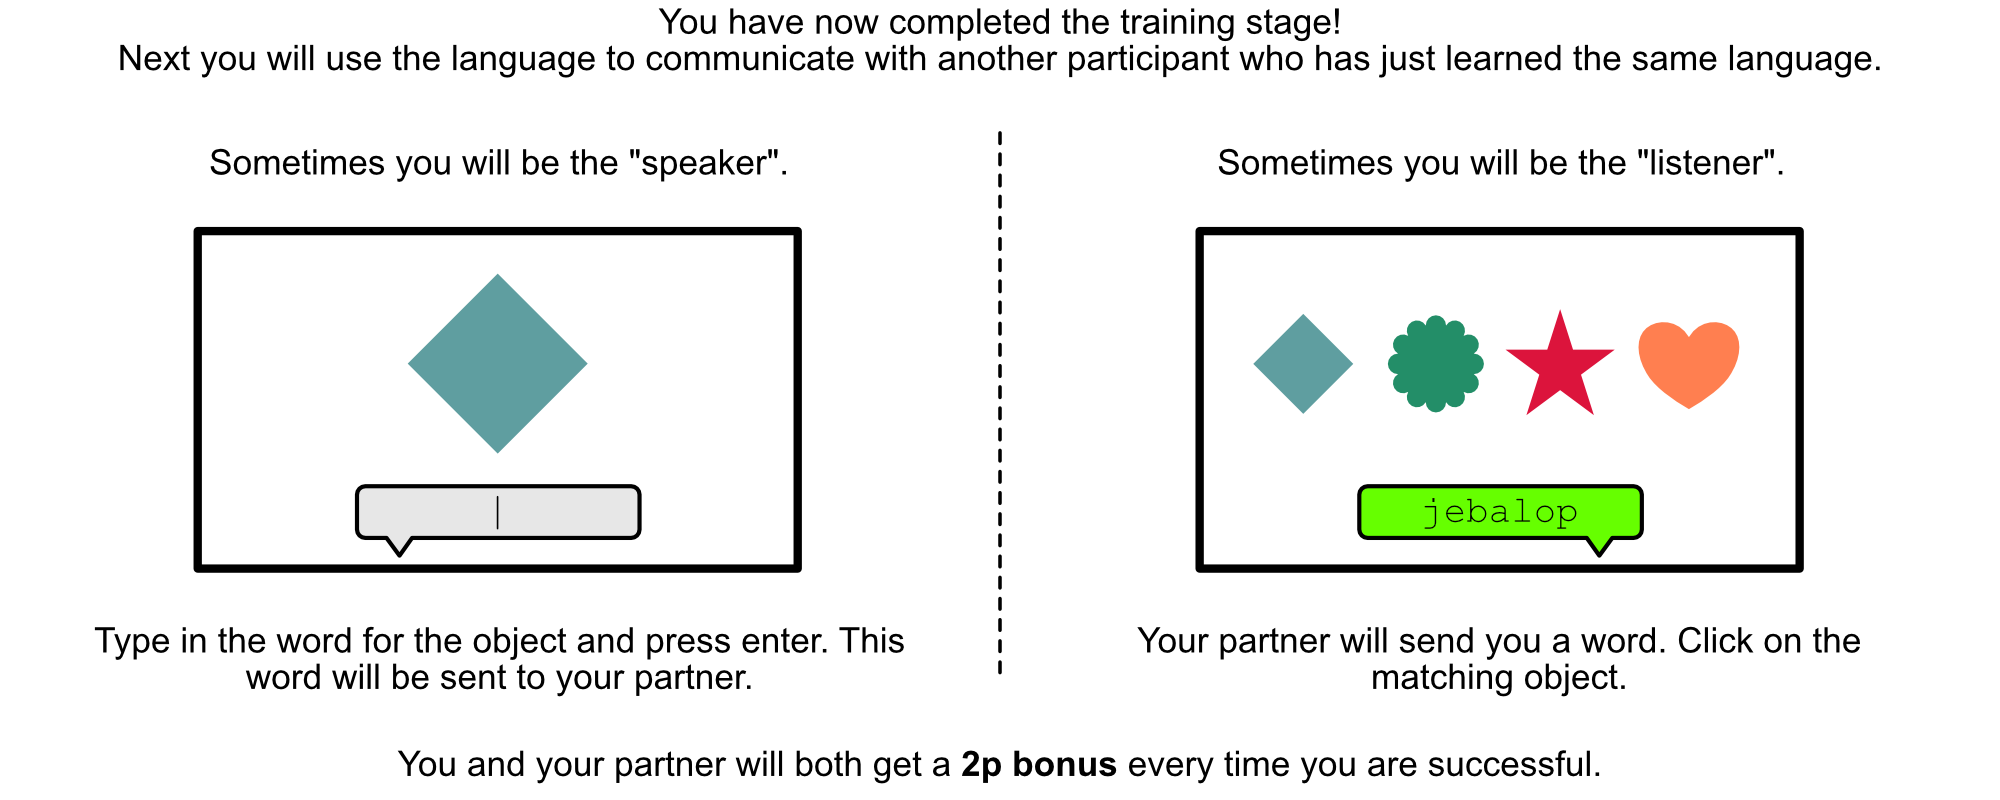
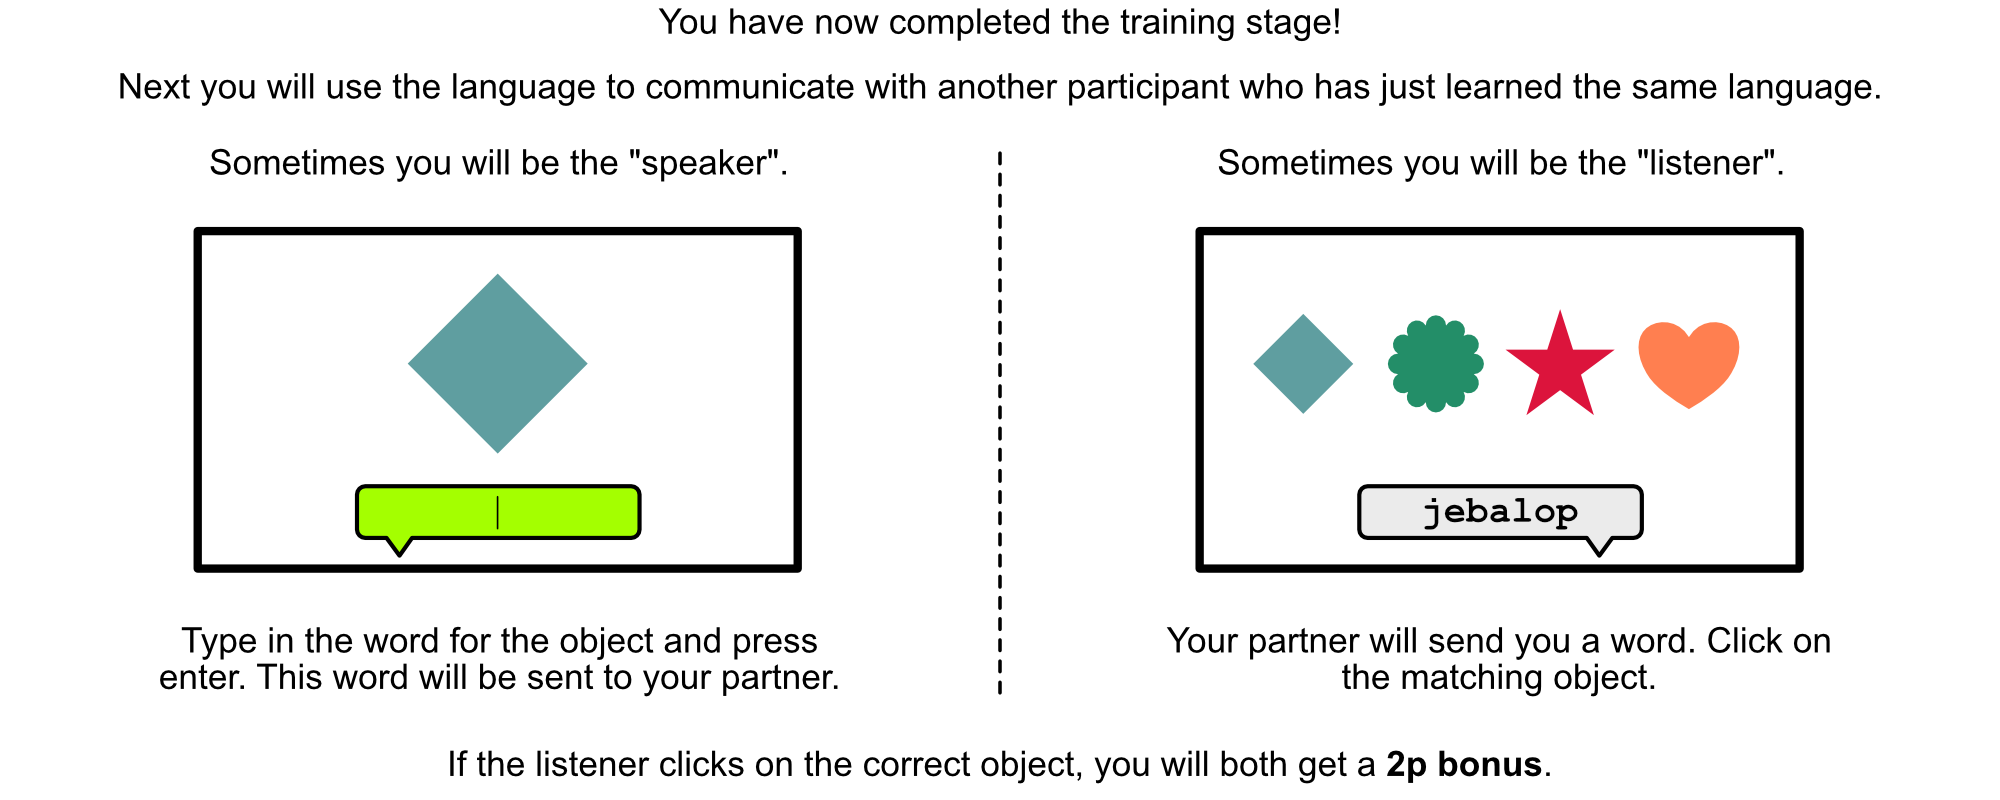
Add mini test timeout and fix bonusing

diff --git a/experiment/server.js b/experiment/server.js
@@ -166,6 +166,7 @@ function generateTrialSequence(task, words, trained_item_indices, lead_communica
 						shape: shape,
 						color: color,
 						catch_trial: false,
+						max_response_time: EXP_CONFIG.max_response_time,
 					};
 					// trial_sequence.push({event:'training_block', payload:{
 					// 	training_trials,
@@ -173,8 +174,6 @@ function generateTrialSequence(task, words, trained_item_indices, lead_communica
 					// 	trial_time: task.trial_time,
 					// 	pause_time: task.pause_time,
 					// 	progress: task.mini_test_freq + 1,
-					// 	bonus_partial: task.bonus_partial,
-					// 	bonus_full: task.bonus_full,
 					// }});
 					training_trials = [];
 				}
@@ -206,15 +205,11 @@ function generateTrialSequence(task, words, trained_item_indices, lead_communica
 				color: color,
 				pause_time: task.pause_time,
 				progress: 2,
-				bonus_partial: task.bonus_partial,
-				bonus_full: task.bonus_full,
 			}};
 			const comprehension_event = {event:'comm_comprehension', payload:{
 				array: generateItems(task.n_shapes, task.n_colors),
 				pause_time: task.pause_time,
 				progress: 2,
-				bonus_partial: task.bonus_partial,
-				bonus_full: task.bonus_full,
 			}};
 			if (lead_communicator) {
 				trial_sequence.push(production_event);
@@ -231,8 +226,6 @@ function generateTrialSequence(task, words, trained_item_indices, lead_communica
 				color: color,
 				pause_time: task.pause_time,
 				progress: 2,
-				bonus_partial: task.bonus_partial,
-				bonus_full: task.bonus_full,
 			}});
 			const comp_item = comp_item_indices[i];
 			trial_sequence.push({event:'test_comprehension', payload:{
@@ -241,8 +234,6 @@ function generateTrialSequence(task, words, trained_item_indices, lead_communica
 				array: generateItems(task.n_shapes, task.n_colors),
 				pause_time: task.pause_time,
 				progress: 2,
-				bonus_partial: task.bonus_partial,
-				bonus_full: task.bonus_full,
 			}});			
 		}
 
@@ -251,9 +242,9 @@ function generateTrialSequence(task, words, trained_item_indices, lead_communica
 		progress : 10,
 	}});
 	trial_sequence.push({event:'end_of_experiment', payload:{
-		return_url : task.return_url,
-		basic_pay : task.basic_pay,
-		progress : 0,
+		return_url: EXP_CONFIG.return_url,
+		basic_pay: EXP_CONFIG.basic_pay,
+		progress: 0,
 	}});
 	let total_units_of_progress = 0;
 	for (let i = 0; i < trial_sequence.length; i++) {
@@ -339,7 +330,7 @@ socket.on('connection', function(client) {
 				db.subjects.update({subject_id: subject.subject_id}, { $set:{client_id: client.id}, $inc: {n_reinitializations: 1} }, function() {
 					return client.emit('initialize', {
 						total_bonus: subject.total_bonus,
-						basic_pay: subject.basic_pay,
+						basic_pay: EXP_CONFIG.basic_pay,
 						max_pay: EXP_CONFIG.max_pay,
 						session_time: EXP_CONFIG.session_time,
 						object_array_dims: EXP_CONFIG.object_array_dims,
@@ -358,9 +349,6 @@ socket.on('connection', function(client) {
 					input_lexicon: null,
 					training_items: null,
 					trial_sequence: generateTrialSequenceStub(),
-					basic_pay: EXP_CONFIG.basic_pay,
-					bonus_partial: EXP_CONFIG.bonus_partial,
-					bonus_full: EXP_CONFIG.bonus_full,
 					n_reinitializations: 0,
 					sequence_position: 0,
 					total_bonus: 0,
@@ -374,7 +362,7 @@ socket.on('connection', function(client) {
 					// Tell the client to initialize
 					return client.emit('initialize', {
 						total_bonus: subject.total_bonus,
-						basic_pay: subject.basic_pay,
+						basic_pay: EXP_CONFIG.basic_pay,
 						max_pay: EXP_CONFIG.max_pay,
 						session_time: EXP_CONFIG.session_time,
 						object_array_dims: EXP_CONFIG.object_array_dims,
@@ -439,6 +427,8 @@ socket.on('connection', function(client) {
 					// tell client to begin the next trial
 					const next = subject.trial_sequence[subject.sequence_position];
 					next.payload.total_bonus = subject.total_bonus;
+					next.payload.total_bonus_with_full = subject.total_bonus + EXP_CONFIG.bonus_full;
+					next.payload.total_bonus_with_part = subject.total_bonus + EXP_CONFIG.bonus_part;
 					return client.emit(next.event, next.payload);
 				});
 			});
@@ -466,16 +456,18 @@ socket.on('connection', function(client) {
 				payload.response.time = time;
 				update.$push = {responses:payload.response};
 				if (payload.response.test_type === 'mini_test') {
-					if (payload.response.input_label === payload.response.expected_label)
-						update.$inc.total_bonus = subject.bonus_full;
-					else if (payload.response.input_label.substr(0, 3) === payload.response.expected_label.substr(0, 3))
-						update.$inc.total_bonus = subject.bonus_partial;
+					if (payload.response.response_time < EXP_CONFIG.max_response_time) {
+						if (payload.response.input_label === payload.response.expected_label)
+							update.$inc.total_bonus = EXP_CONFIG.bonus_full;
+						else if (payload.response.input_label.substr(0, 3) === payload.response.expected_label.substr(0, 3))
+							update.$inc.total_bonus = EXP_CONFIG.bonus_part;
+					}
 				} else if (payload.response.test_type === 'test_production') {
 					if (payload.response.input_label === payload.response.expected_label)
-						update.$inc.total_bonus = subject.bonus_full;
+						update.$inc.total_bonus = EXP_CONFIG.bonus_full;
 				} else if (payload.response.test_type === 'test_comprehension') {
 					if (payload.response.selected_item === payload.response.item)
-						update.$inc.total_bonus = subject.bonus_full;
+						update.$inc.total_bonus = EXP_CONFIG.bonus_full;
 				}
 			}
 			if (payload.comments)
@@ -487,6 +479,8 @@ socket.on('connection', function(client) {
 				// Tell subject to begin the next trial
 				const next = subject.trial_sequence[subject.sequence_position];
 				next.payload.total_bonus = subject.total_bonus;
+				next.payload.total_bonus_with_full = subject.total_bonus + EXP_CONFIG.bonus_full;
+				next.payload.total_bonus_with_part = subject.total_bonus + EXP_CONFIG.bonus_part;
 				if (next.event === 'end_of_experiment') {
 					db.subjects.update({subject_id: subject.subject_id}, {$set: {status: 'approval_needed'}});
 					db.chains.update({chain_id: subject.chain_id}, {$set: {status: `approval_needed ${subject.subject_id}`}});
@@ -522,8 +516,12 @@ socket.on('connection', function(client) {
 					READY_FOR_COMMUNICATION[partner.subject_id] = false;
 					const subject_next = subject.trial_sequence[subject.sequence_position];
 					subject_next.payload.total_bonus = subject.total_bonus;
+					subject_next.payload.total_bonus_with_full = subject.total_bonus + EXP_CONFIG.bonus_full;
+					subject_next.payload.total_bonus_with_part = subject.total_bonus + EXP_CONFIG.bonus_part;
 					const partner_next = partner.trial_sequence[partner.sequence_position];
 					partner_next.payload.total_bonus = partner.total_bonus;
+					partner_next.payload.total_bonus_with_full = partner.total_bonus + EXP_CONFIG.bonus_full;
+					partner_next.payload.total_bonus_with_part = partner.total_bonus + EXP_CONFIG.bonus_part;
 					client.emit(subject_next.event, subject_next.payload);
 					client.to(partner.client_id).emit(partner_next.event, partner_next.payload);
 				} else {
@@ -552,8 +550,8 @@ socket.on('connection', function(client) {
 				return reportError(client, 132, 'Your session is no longer active.');
 			// get the partner subject and forward the label to them
 			getPartner(subject, function(partner, chain) {
-				let new_bonus_if_correct = partner.total_bonus + partner.bonus_full;
-				client.to(partner.client_id).emit('receive_message', {label: payload.response.input_label, item: payload.response.item, new_bonus_if_correct, pause_time: chain.task.pause_time});
+				const total_bonus_with_full = partner.total_bonus + EXP_CONFIG.bonus_full;
+				client.to(partner.client_id).emit('receive_message', {label: payload.response.input_label, item: payload.response.item, total_bonus_with_full, pause_time: chain.task.pause_time});
 			});
 		});
 	});
@@ -581,9 +579,9 @@ socket.on('connection', function(client) {
 				const selected_item = payload.response.selected_item;
 				let new_partner_bonus = partner.total_bonus;
 				if (selected_item === target_item) {
-					db.subjects.update({subject_id: subject.subject_id}, {$inc: {total_bonus: subject.bonus_full}});
-					db.subjects.update({subject_id: partner.subject_id}, {$inc: {total_bonus: partner.bonus_full}});
-					new_partner_bonus += partner.bonus_full
+					db.subjects.update({subject_id: subject.subject_id}, {$inc: {total_bonus: EXP_CONFIG.bonus_full}});
+					db.subjects.update({subject_id: partner.subject_id}, {$inc: {total_bonus: EXP_CONFIG.bonus_full}});
+					new_partner_bonus += EXP_CONFIG.bonus_full;
 				}
 				client.to(partner.client_id).emit('receive_feedback', {selected_item, target_item, total_bonus: new_partner_bonus, pause_time: chain.task.pause_time});
 			});

diff --git a/experiment/client/client.js b/experiment/client/client.js
@@ -215,6 +215,7 @@ socket.on('consent', function(payload) {
 });
 
 socket.on('training_instructions', function(payload) {
+	updateBonus(payload.total_bonus);
 	$('#start_training').click(function() {
 		$('#start_training').off('click');
 		$('#start_training').hide();
@@ -232,6 +233,7 @@ socket.on('training_instructions', function(payload) {
 });
 
 socket.on('test_instructions', function(payload) {
+	updateBonus(payload.total_bonus);
 	updateProgress(payload.progress);
 	$('#start_test').click(function() {
 		$('#start_test').off('click');
@@ -249,6 +251,7 @@ socket.on('test_instructions', function(payload) {
 });
 
 socket.on('comm_instructions', function(payload) {
+	updateBonus(payload.total_bonus);
 	updateProgress(payload.progress);
 	$('#start_test').click(function() {
 		$('#start_test').off('click');
@@ -270,6 +273,7 @@ socket.on('comm_instructions', function(payload) {
 
 socket.on('training_block', function(payload) {
 	console.log(payload);
+	updateBonus(payload.total_bonus);
 	updateProgress(payload.progress);
 	iterAtInterval(payload.training_trials, payload.trial_time,
 		// func: On each passive exposure trial...
@@ -307,9 +311,14 @@ socket.on('training_block', function(payload) {
 					if (validateWord(label)) {
 						$("#input_form").off('submit');
 						const response_time = Math.floor(performance.now() - start_time);
+						console.log(response_time);
+						timer.stop();
+						$('#timer_bar').hide();
+						$('#timer').css('width', '998px');
 						setTimeout(function() {
 							// 4. After 2*pause_time, hide the word and object buttons and request the next trial
 							hideObject();
+							hideWord();
 							socket.emit('next', {subject_id, response: {
 								test_type: 'mini_test',
 								shape: payload.test_trial.shape,
@@ -324,14 +333,18 @@ socket.on('training_block', function(payload) {
 						// 3. On enter, show feedback and update the user's bonus
 						hideLabelInput();
 						showWord(diffLabels(label, payload.test_trial.word));
-						if (label === payload.test_trial.word) {
-							bonus_audio[2].play();
-							updateBonus(payload.total_bonus + payload.bonus_full);
-						} else if (label.substr(0, 3) === payload.test_trial.word.substr(0, 3)) {
-							bonus_audio[1].play();
-							updateBonus(payload.total_bonus + payload.bonus_partial);
-						} else {
-							bonus_audio[0].play();
+						if (response_time < payload.test_trial.max_response_time) {
+							console.log('within time');
+							if (label === payload.test_trial.word) {
+								bonus_audio[2].play();
+								updateBonus(payload.total_bonus_with_full);
+							} else if (label.substr(0, 3) === payload.test_trial.word.substr(0, 3)) {
+								bonus_audio[1].play();
+								updateBonus(payload.total_bonus_with_part);
+							} else {
+								bonus_audio[0].play();
+								updateBonus(payload.total_bonus);
+							}
 						}
 					} else {
 						showInputError('#label');
@@ -340,10 +353,13 @@ socket.on('training_block', function(payload) {
 				});
 				// 2. After pause_time, show the object and input box
 				showObject();
+				$('#timer').css('width', '998px');
+				$('#timer_bar').show();
+				const timer = $('#timer').animate({width: 0}, payload.test_trial.max_response_time, 'linear');
+				const start_time = performance.now();
 				showLabelInput();
 				if (payload.test_trial.catch_trial)
 					catch_instruction.play();
-				const start_time = performance.now();
 			}, payload.pause_time);
 		}
 	);
@@ -354,6 +370,7 @@ socket.on('training_block', function(payload) {
 socket.on('test_production', function(payload) {
 	console.log(payload);
 	$('#test_instructions').hide();
+	updateBonus(payload.total_bonus);
 	updateProgress(payload.progress);
 	// 1. Preload the test word
 	hideObject();
@@ -374,8 +391,9 @@ socket.on('test_production', function(payload) {
 				hideLabelInput();
 				if (label === payload.word) {
 					bonus_audio[2].play();
-					updateBonus(payload.total_bonus + payload.bonus_full);
+					updateBonus(payload.total_bonus_with_full);
 				} else {
+					updateBonus(payload.total_bonus);
 					bonus_audio[0].play();
 				}
 				setTimeout(function() {
@@ -408,6 +426,7 @@ socket.on('test_production', function(payload) {
 socket.on('test_comprehension', function(payload) {
 	console.log(payload);
 	$('#test_instructions').hide();
+	updateBonus(payload.total_bonus);
 	updateProgress(payload.progress);
 	// 1. Preload the test word
 	hideArray();
@@ -423,9 +442,10 @@ socket.on('test_comprehension', function(payload) {
 			// 3. object clicked, hide array and move on
 			if (selected_item === payload.item) {
 				bonus_audio[2].play();
-				updateBonus(payload.total_bonus + payload.bonus_full);
+				updateBonus(payload.total_bonus_with_full);
 			} else {
 				bonus_audio[0].play();
+				updateBonus(payload.total_bonus);
 			}
 			setTimeout(function() {
 				hideArray();
@@ -452,6 +472,7 @@ socket.on('comm_production', function(payload) {
 	console.log(payload);
 	$('#comm_instructions').hide();
 	$('#spinner').hide();
+	updateBonus(payload.total_bonus);
 	updateProgress(payload.progress);
 	// 1. Preload the test word
 	hideObject();
@@ -500,6 +521,7 @@ socket.on('comm_production', function(payload) {
 socket.on('comm_comprehension', function(payload) {
 	console.log(payload);
 	$('#comm_instructions').hide();
+	updateBonus(payload.total_bonus);
 	updateProgress(payload.progress);
 	hideArray();
 	hideWord();
@@ -525,7 +547,7 @@ socket.on('receive_message', function(payload) {
 		}
 		if (selected_item === payload.item) {
 			bonus_audio[2].play();
-			updateBonus(payload.new_bonus_if_correct);
+			updateBonus(payload.total_bonus_with_full);
 		} else {
 			bonus_audio[0].play();
 		}
@@ -562,6 +584,7 @@ socket.on('receive_feedback', function(payload) {
 });
 
 socket.on('questionnaire', function(payload) {
+	updateBonus(payload.total_bonus);
 	updateProgress(payload.progress);
 	$('#experiment').hide();
 	$('#submit_questionnaire').click(function() {
@@ -582,6 +605,7 @@ socket.on('questionnaire', function(payload) {
 });
 
 socket.on('end_of_experiment', function(payload) {
+	updateBonus(payload.total_bonus);
 	updateProgress(payload.progress);
 	$('#questionnaire').hide();
 	$('#basic_pay').html('£' + (payload.basic_pay/100).toFixed(2));

diff --git a/experiment/client/style.css b/experiment/client/style.css
@@ -184,6 +184,25 @@ div#progress{
 	border-radius: 3px 0px 0px 3px;
 }
 
+div#timer_bar{
+	position: absolute;
+	top: 30px;
+	height: 18px;
+	width: 998px;
+	border: 1px solid #DC143C;
+	border-radius: 5px;
+}
+
+div#timer{
+	position: absolute;
+	top: 0px;
+	left: 0px;
+	height: 18px;
+	width: 998px;
+	background-color: #DC143C;
+	border-radius: 3px 0px 0px 3px;
+}
+
 div#money{
 	position: absolute;
 	top: 0px;
@@ -224,3 +243,4 @@ td.pay_type{
 	text-align: center;
 	font-style: italic;
 }
+

diff --git a/experiment/client/index.html b/experiment/client/index.html
@@ -11,7 +11,8 @@
 
 	<div id='header' style='display: none;'>
 		<div id='progress_bar'><div id='progress'></div></div>
-		<div id='money'>BONUS: <span id='bonus_amount'>0</span></div>		
+		<div id='money'>BONUS: <span id='bonus_amount'>0</span></div>
+		<div id='timer_bar' style='display: none;'><div id='timer'></div></div>
 	</div>
 
 	<div id='sound_test' class='instructions' style='display: none;'>
